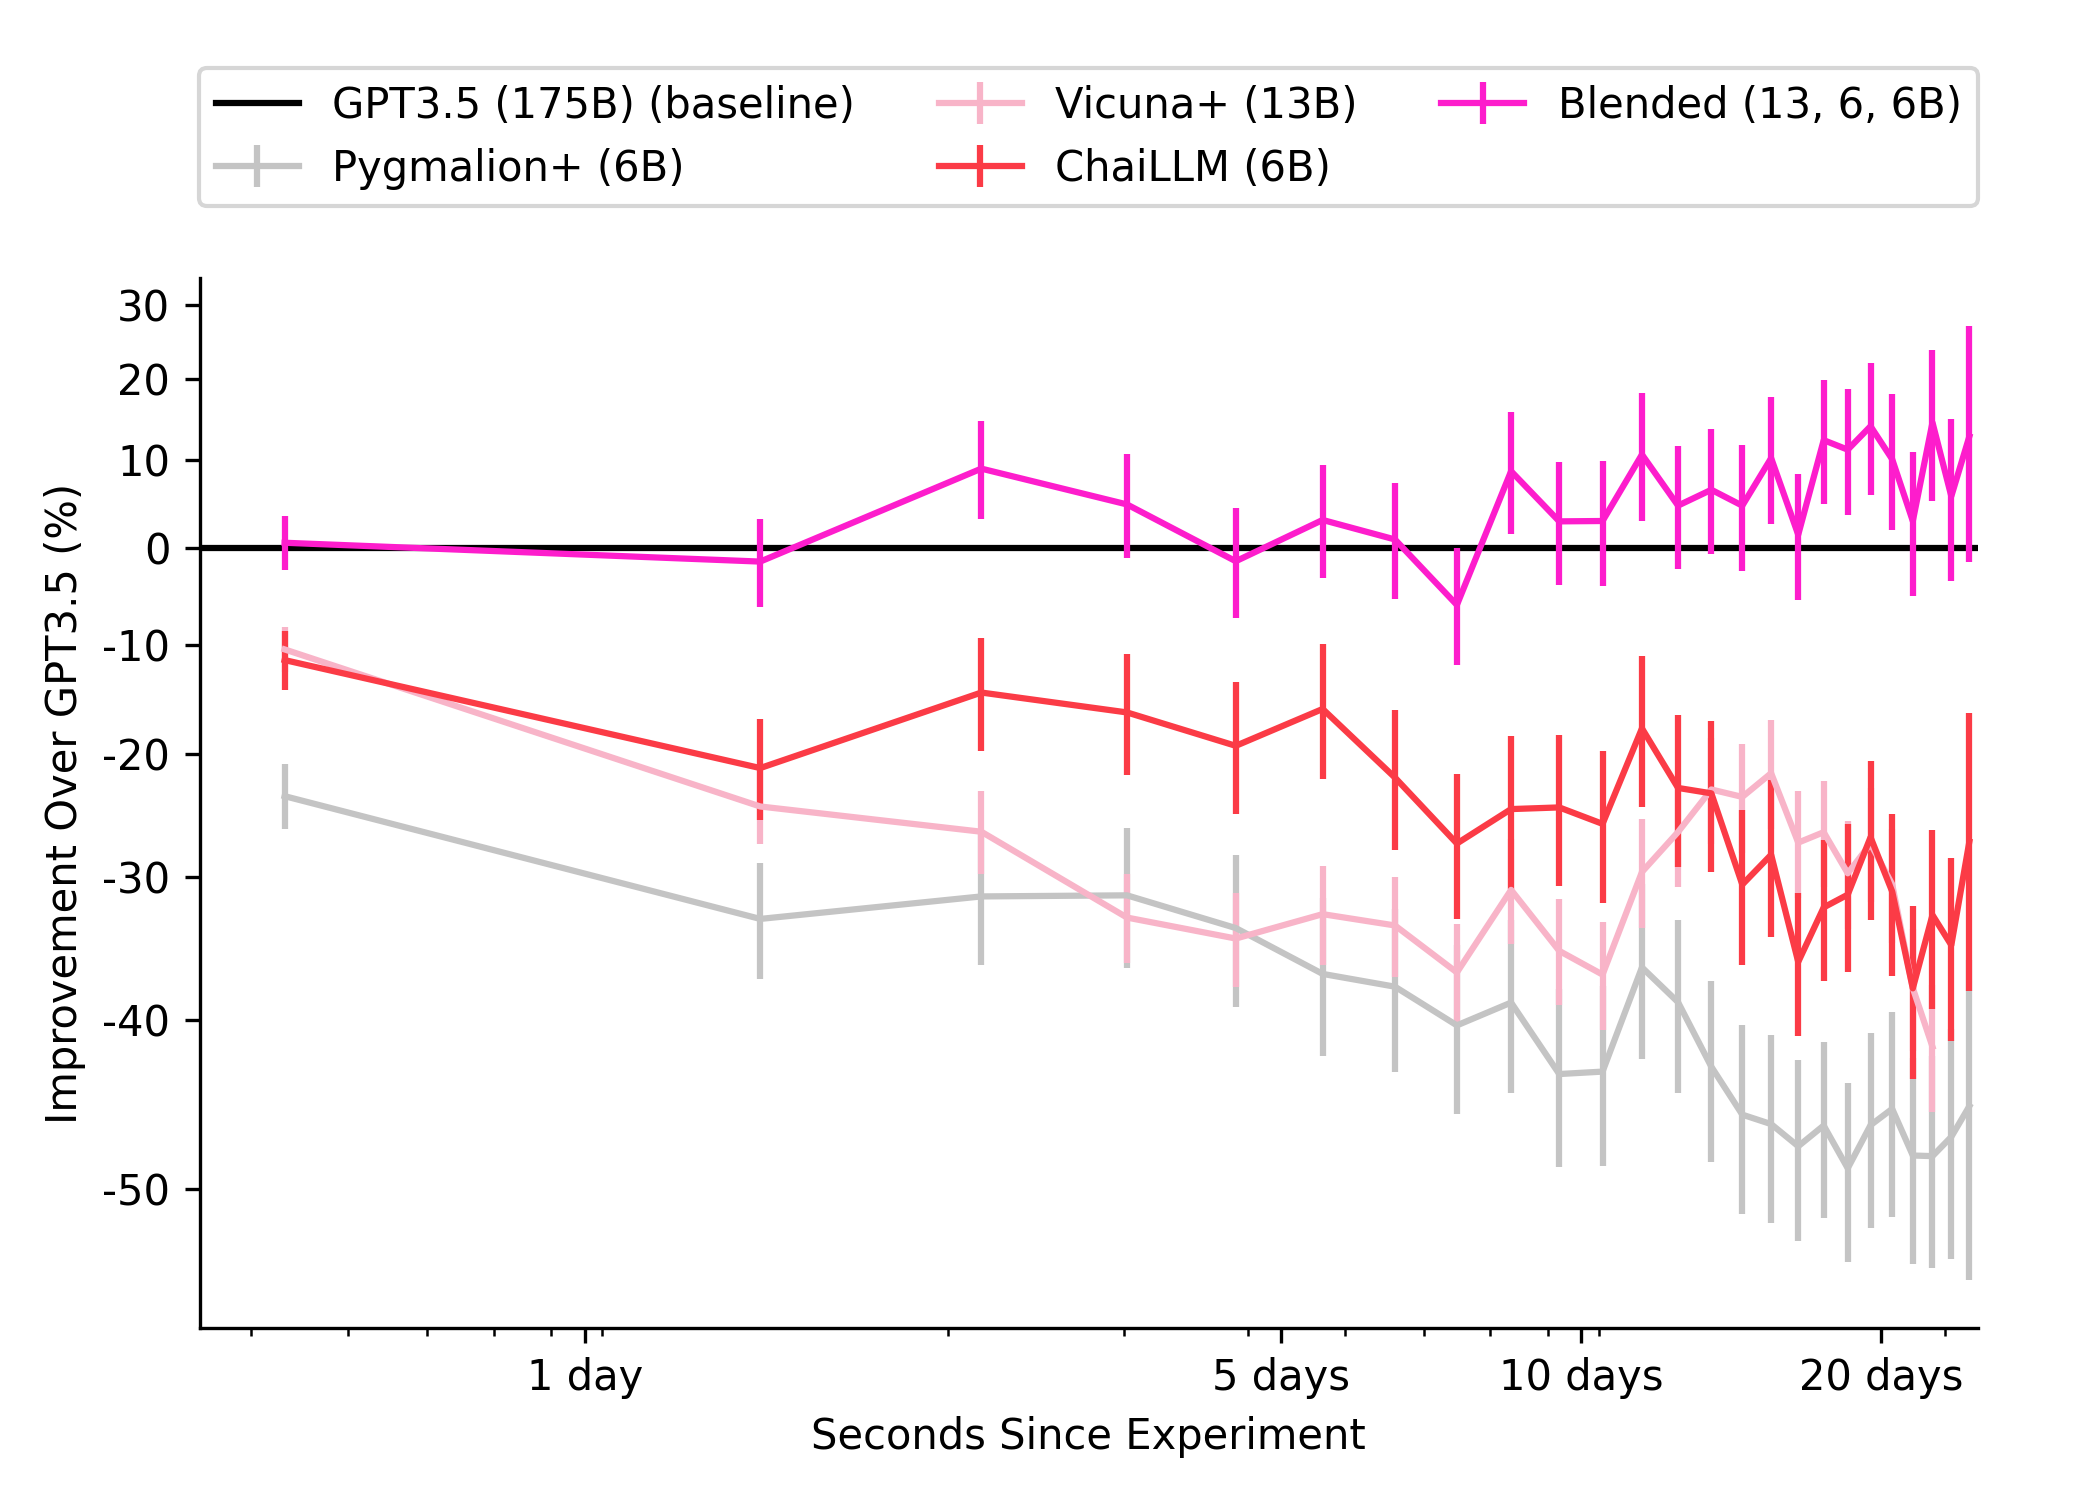
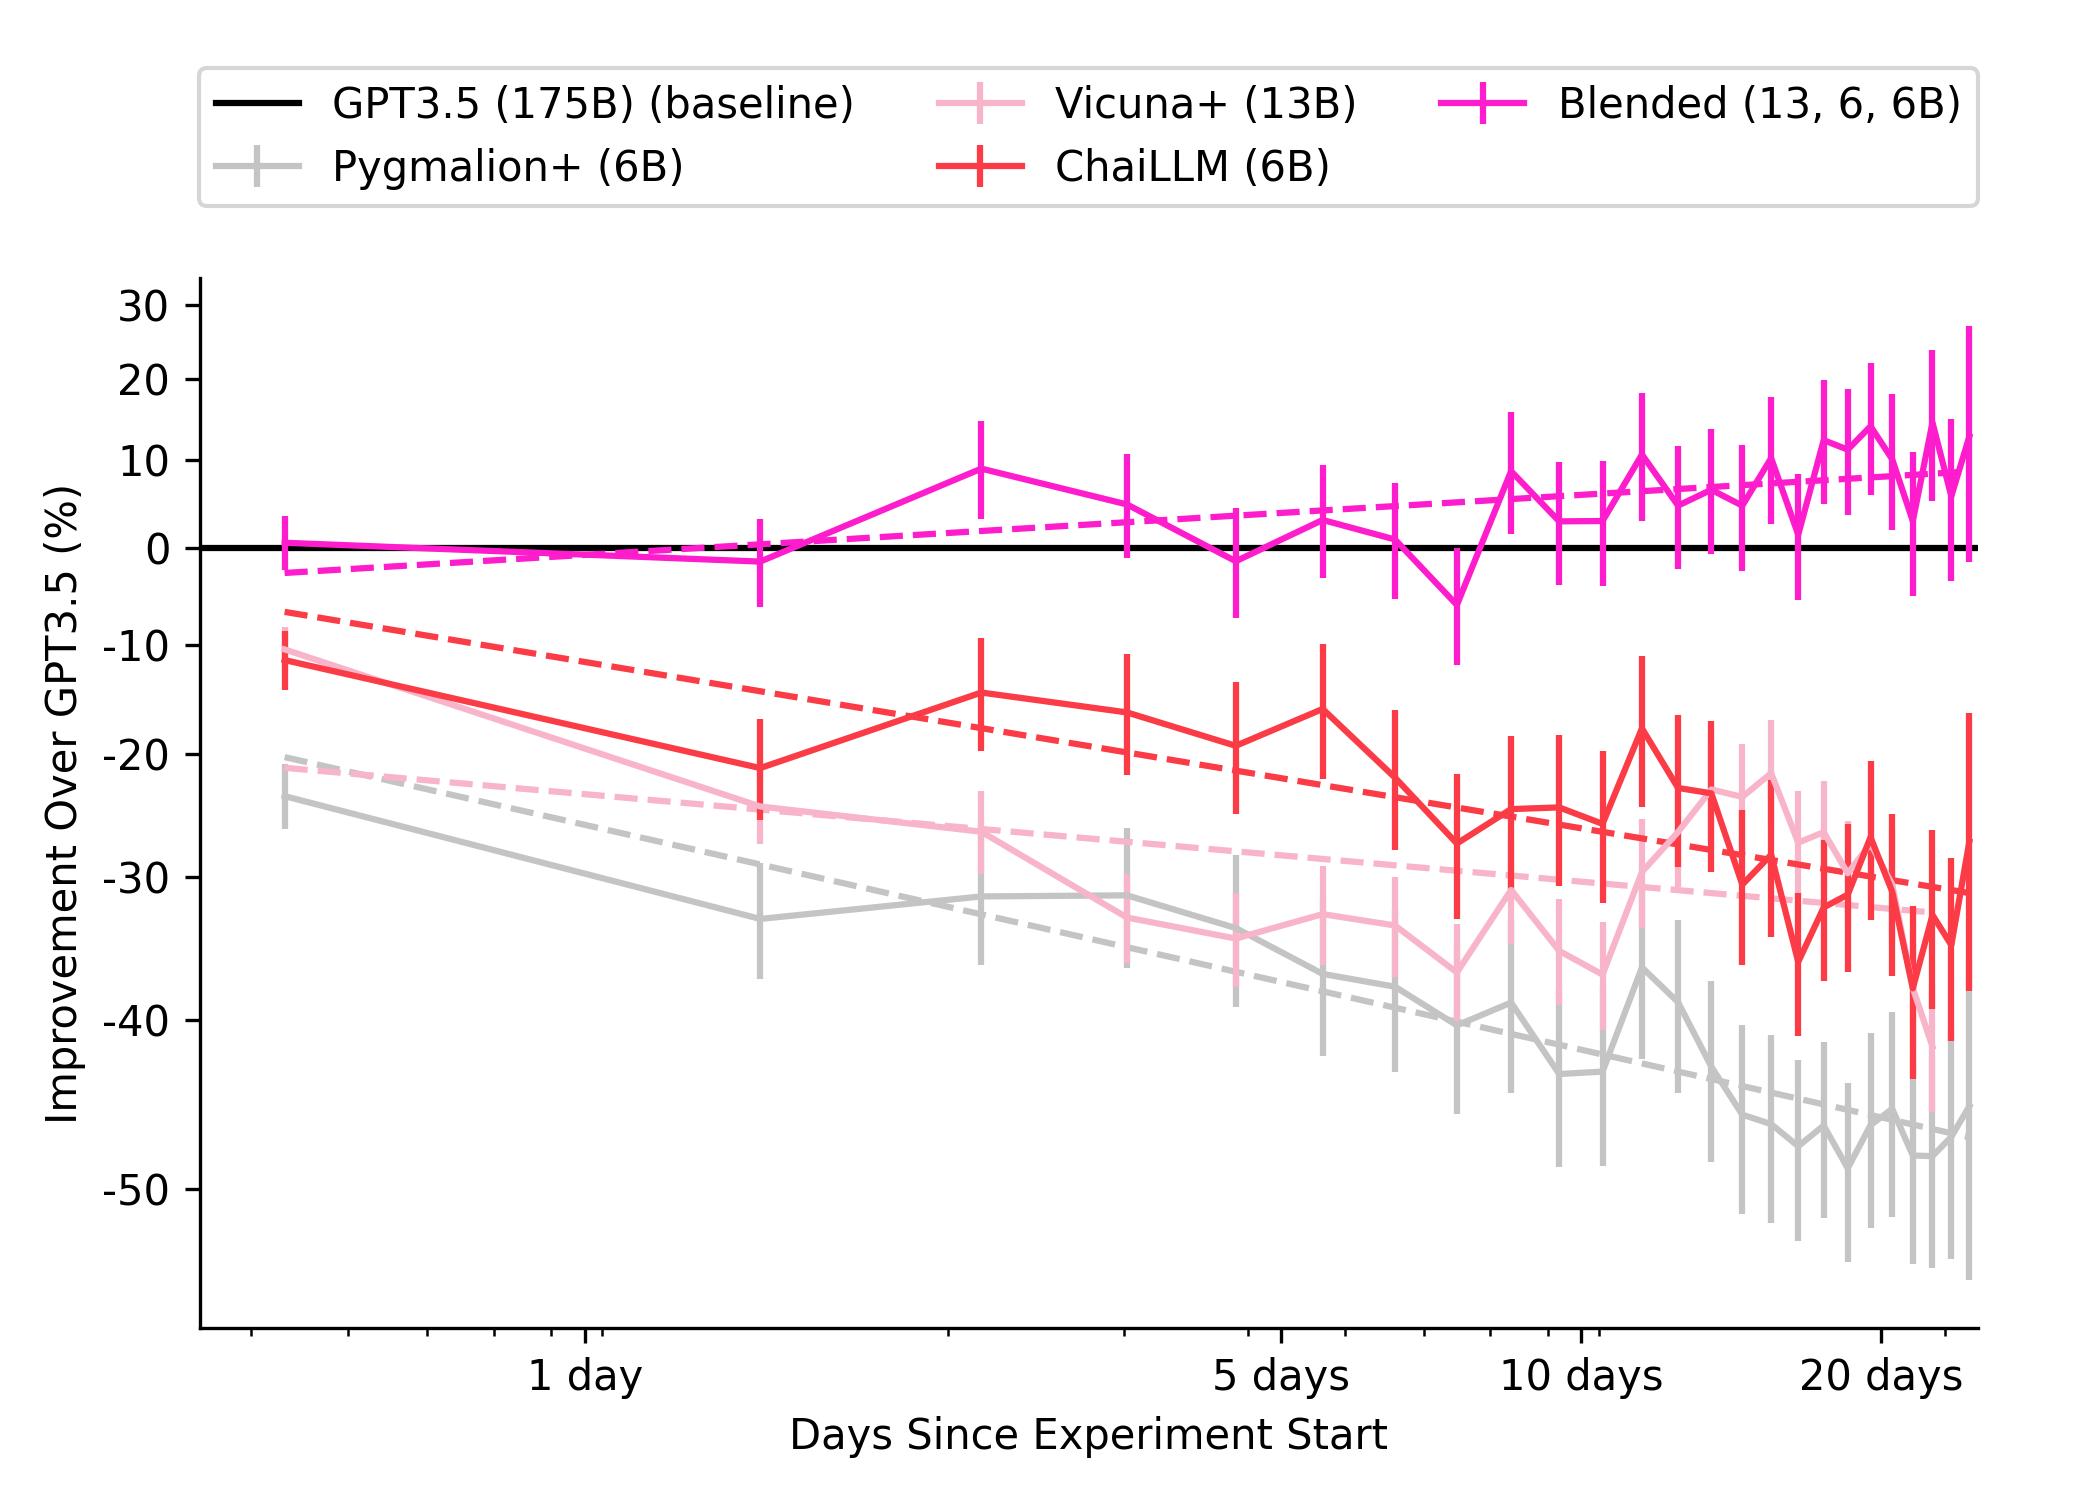
add line of best fit

diff --git a/engagement.py b/engagement.py
@@ -23,14 +23,24 @@ def plot_engagement(data, control):
         color = colors[idx]
         stats = get_improvement_stats(df, control_df)
         ax.errorbar(stats['midpoint'], stats['ratio'], yerr=stats['se'], label=name, color=color)
-
+        ax = _add_line_of_best_fit_plot(stats, ax, color)
     ax = _format_retention_plot(ax)
     plt.tight_layout()
     return fig
 
 
+def _add_line_of_best_fit_plot(stats, ax, color):
+    # not exact value, but close enough
+    ratio = np.log(stats.dropna().ratio)
+    x = np.log(stats.dropna().midpoint)
+    slope, intercept = np.polyfit(x, ratio, 1)
+    x = np.linspace(x.min(), x.max(), 100)
+    ax.plot(np.exp(x), np.exp(intercept + slope * x), '--', color=color)
+    return ax
+
+
 def _format_retention_plot(ax):
-    ax.set_xlabel('Seconds Since Experiment')
+    ax.set_xlabel('Days Since Experiment Start')
     ax.set_ylabel('Improvement Over GPT3.5 (%)')
     ax.set_xscale('log')
     ax.set_yscale('log')
